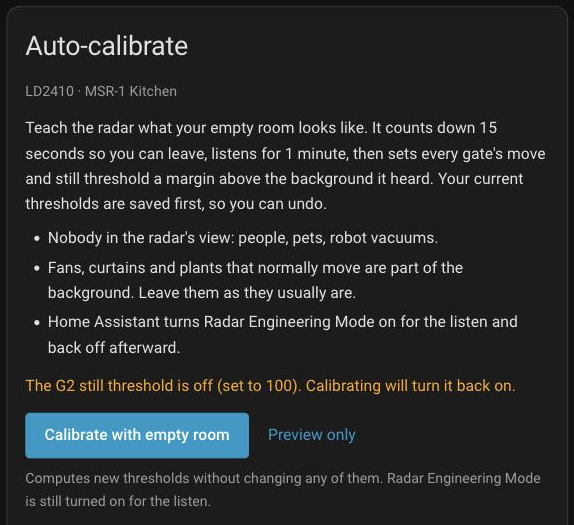
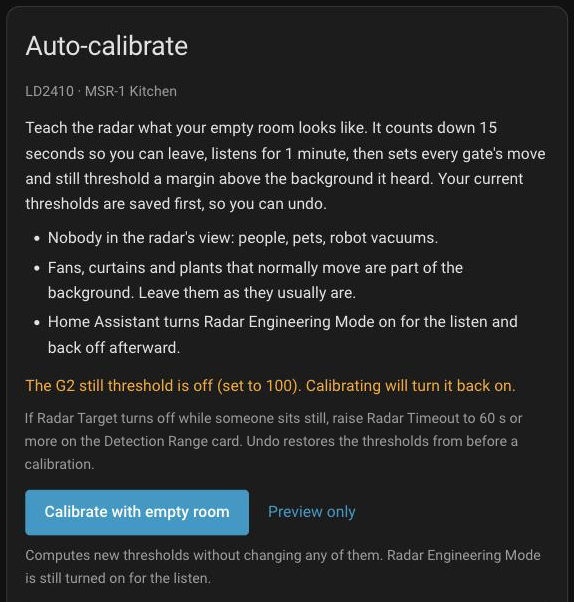
docs: bring five Apollo mmWave screenshots up to the 2.4.0 cards
The guides describe the 2.4.0 cards, but five screenshots under that text
still showed the older ones: LD2450 Live's row read Presence instead of
LD2450 Presence, Start here had no line about Radar Target in automations,
and the Auto-calibrate checklist and result had no reminder to raise Radar
Timeout. The captures now show those lines, and their alt texts say so.

Changed region(s): [[0.0296, 0.061, 0.9477, 0.9752]]

diff --git a/docs/products/general/setup/apollo-mmwave-dashboard.md b/docs/products/general/setup/apollo-mmwave-dashboard.md
@@ -11,7 +11,7 @@ Every tab starts with a **Start here** card that lists your sensor's first steps
 
 Here's the **Start here** card on an MSR-1. On an MTR-1, or an R PRO-1 without the LD2412, it lists three zone map steps instead, and on an R PRO-1 with the LD2412 it covers both radars.
 
-![The Start here card for an MSR-1 named MSR-1 Kitchen, with five numbered steps: fix anything the Radar setup card flags, press Calibrate with empty room, set Max Move Gate and Max Still Gate (each gate is about 2.5 ft), set Radar Timeout, and walk the room while you watch the Gate Energy chart, followed by the Full tuning guide and All settings for this device links](/assets/apollo-mmwave-start-here.png)
+![The Start here card for an MSR-1 named MSR-1 Kitchen, with five numbered steps: fix anything the Radar setup card flags, press Calibrate with empty room, set Max Move Gate and Max Still Gate (each gate is about 2.5 ft), set Radar Timeout, and walk the room while you watch the Gate Energy chart, then the line In automations, use Radar Target for the whole room. If it turns off while someone sits still, raise Radar Timeout to 60 s or more. To ignore people past End Zone 3, use Any zone instead., followed by the Full tuning guide and All settings for this device links](/assets/apollo-mmwave-start-here.png)
 
 !!! note "Before you start"
 
@@ -66,7 +66,7 @@ On an MSR-1 or MSR-2 that has never been tuned, the card may also say **These lo
 
 A threshold of 100 means that gate never triggers, so some people set a gate to 100 to turn it off. Calibration sets every gate the radar uses, including those, and the card warns you first, for example **The G2 still threshold is off (set to 100). Calibrating will turn it back on.** If you turned that gate off on purpose, calibrate anyway and set it back to 100 afterward on the **Still Thresholds** (or **Move Thresholds**) card.
 
-![The Auto-calibrate card on an MSR-1 before a run, with its checklist, the warning The G2 still threshold is off (set to 100). Calibrating will turn it back on., and the Calibrate with empty room and Preview only buttons](/assets/apollo-mmwave-calibrate-idle.png)
+![The Auto-calibrate card on an MSR-1 before a run, with its checklist, the warning The G2 still threshold is off (set to 100). Calibrating will turn it back on., the reminder If Radar Target turns off while someone sits still, raise Radar Timeout to 60 s or more on the Detection Range card., and the Calibrate with empty room and Preview only buttons](/assets/apollo-mmwave-calibrate-idle.png)
 
 ### Run a calibration
 
@@ -107,7 +107,7 @@ When the run finishes, the card shows **Thresholds updated** and a summary such 
 
 Below the summary is a table with one row per gate and the columns **Gate**, **Move peak**, **Move threshold**, **Still peak**, and **Still threshold**. The peak is the highest energy that gate reached while the room was empty. The new threshold is that peak plus some headroom, capped at 100. From Apollo mmWave 2.2.4, the headroom is 15 points or 35% of the peak, whichever is larger: a move peak of 14 becomes a threshold of 29, and a still peak of 60 becomes 81. Earlier versions used 10 points or a quarter of the peak, so calibrate again after updating to get the extra headroom.
 
-![The result of a calibration on an MSR-1: Thresholds updated, Calibrated at 01:04 PM from 60 samples. 18 of 18 thresholds changed., the result table with each gate's peak and its old and new threshold, such as G2 move peak 6 and 16 → 21, the walk-test line, and the Undo (restore your previous values), Calibrate again, and Close buttons](/assets/apollo-mmwave-calibrate-result.png)
+![The result of a calibration on an MSR-1: Thresholds updated, Calibrated at 01:04 PM from 60 samples. 18 of 18 thresholds changed., the result table with each gate's peak and its old and new threshold, such as G2 move peak 6 and 16 → 21, the walk-test line, the reminder to raise Radar Timeout to 60 s or more if Radar Target turns off while someone sits still, and the Undo (restore your previous values), Calibrate again, and Close buttons](/assets/apollo-mmwave-calibrate-result.png)
 
 What the threshold cells mean:
 
@@ -212,7 +212,7 @@ Every R PRO-1 has an LD2450 radar, and the optional LD2412 addon adds a second o
 - There is no Zone Config card, and the Distances chart shows the gates and the Max Gate and Min Gate bars without live distance bars.
 - Before it writes, the calibration asks the radar for its current thresholds (**Reading the radar's current thresholds...**), so what it saves for Undo matches the radar.
 
-![The Auto-calibrate card on an R PRO-1, titled LD2412 · R PRO-1 Server Rack, with a fourth checklist item asking you to run Start Dynamic Background Correction first](/assets/apollo-mmwave-calibrate-r-pro-1.png)
+![The Auto-calibrate card on an R PRO-1, titled LD2412 · R PRO-1 Server Rack, with a fourth checklist item asking you to run Start Dynamic Background Correction first, and under the checklist the reminder to raise Radar Timeout to 60 s or more if Radar Target turns off while someone sits still](/assets/apollo-mmwave-calibrate-r-pro-1.png)
 
 The LD2412 also has its own background learning, **Start Dynamic Background Correction** on the **LD2412 Controls** card. It runs on the radar chip and stores its result inside the radar. **Background Correction Running** shows whether it is still working. Use both, in this order:
 
@@ -435,7 +435,7 @@ To try a zone, walk into it: the zone fills in on the map while its sensor is on
 
 Under it, **LD2450 Live** shows what the radar reports right now. If the map shows no dot with you in the room, look here first: **LD2450 Presence** off means the radar itself reports nobody. It covers the radar's whole view, not one zone, and **Occupancy History** names its line **LD2450 Presence** too.
 
-![The LD2450 Live card on an R PRO-1 with nobody in the room: Presence, Moving Target, and Still Target read Clear, Target Count reads 0.0, and Target 1 to 3 Distance read Unknown with their Direction rows reading NA](/assets/apollo-mmwave-ld2450-live.png)
+![The LD2450 Live card on an R PRO-1 with nobody in the room: LD2450 Presence, Moving Target, and Still Target read Clear, Target Count reads 0.0, and Target 1 to 3 Distance read Unknown with their Direction rows reading NA](/assets/apollo-mmwave-ld2450-live.png)
 
 **LD2450 Controls** holds **Zone Type**, **Multi Target Tracking**, **Radar Timeout**, **Radar Bluetooth (HLK app)**, **Restart Radar**, and **Factory Reset Radar**, whichever your sensor has (the MTR-1 has no Restart Radar). The restart and the reset ask before they act. **Radar Timeout** is how long **LD2450 Presence** stays on after the radar last sees someone. It doesn't hold the zones you draw: a zone turns off as soon as nobody is in it, unless you give it a hold time (see [Ignore a spot or hold a zone](#ignore-a-spot-or-hold-a-zone)). While Zone Type isn't **Disabled**, a **Radar's built-in zones** card shows the radar chip's own zones, which are not the zones on the map.
 

diff --git a/docs/products/general/setup/apollo-mmwave-dashboard-setup.md b/docs/products/general/setup/apollo-mmwave-dashboard-setup.md
@@ -105,7 +105,7 @@ Both sensors use the LD2410 radar chip, so their tabs look the same, and the tun
 
 - **Start here** sits at the top. It names your sensor and lists five steps, from **Fix anything the Radar setup card flags.** to walking the room while you watch the Gate Energy chart. Under the steps it says to use **Radar Target** in automations for the whole room, and to raise **Radar Timeout** to 60 s or more if it turns off while someone sits still. Its links open the tuning guide on this wiki and your sensor's own page in Home Assistant.
 
-    ![The Start here card for an MSR-1 named MSR-1 Kitchen, with five numbered steps starting Fix anything the Radar setup card flags., followed by the Full tuning guide and All settings for this device links](/assets/apollo-mmwave-start-here.png)
+    ![The Start here card for an MSR-1 named MSR-1 Kitchen, with five numbered steps starting Fix anything the Radar setup card flags., then the line In automations, use Radar Target for the whole room., followed by the Full tuning guide and All settings for this device links](/assets/apollo-mmwave-start-here.png)
 
 - Under it, the **Radar setup** card checks the radar's settings and offers a fix when one is off. On a sensor that's ready to go it reads **Radar settings look good.**
 - **Auto-calibrate** comes next, with the **Calibrate with empty room** and **Preview only** buttons. If your sensor still has its factory thresholds and has never been calibrated, the card adds **These look like factory thresholds. Calibrating sets them for your room.**
@@ -147,7 +147,7 @@ Your dashboard is working. Follow the **Start here** card on each tab, from the 
 1. Look at the **Radar setup** card near the top of the tab. If it flags a setting, follow what it says: most problems have a button that fixes them, and the card changes nothing until you press one. An R PRO-1 tab has a second one above the zone map, for the LD2450.
 2. On an MSR-1 or MSR-2 tab, or an R PRO-1 tab with the LD2412 addon, calibrate the radar. Skip this step on an R PRO-1 without the LD2412. On an R PRO-1, first clear the room, press **Start Dynamic Background Correction** on the **LD2412 Controls** card, and wait for **Background Correction Running** to turn off. Then press **Calibrate with empty room** on the **Auto-calibrate** card and leave the room for about a minute and a half. You don't need to turn on Radar Engineering Mode: the calibration does that for you. The [tuning guide](apollo-mmwave-dashboard.md#calibrate-with-an-empty-room) walks you through it.
 
-    ![The Auto-calibrate card on an MSR-1, ready to run, with the Calibrate with empty room and Preview only buttons](/assets/apollo-mmwave-calibrate-idle.png)
+    ![The Auto-calibrate card on an MSR-1, ready to run, with the reminder to raise Radar Timeout to 60 s or more if Radar Target turns off while someone sits still, and the Calibrate with empty room and Preview only buttons](/assets/apollo-mmwave-calibrate-idle.png)
 
 3. On an MTR-1 or R PRO-1 tab, press **Add zone** under the zone map and [draw your zones](apollo-mmwave-dashboard.md#draw-zones-on-the-r-pro-1-and-mtr-1).
 
